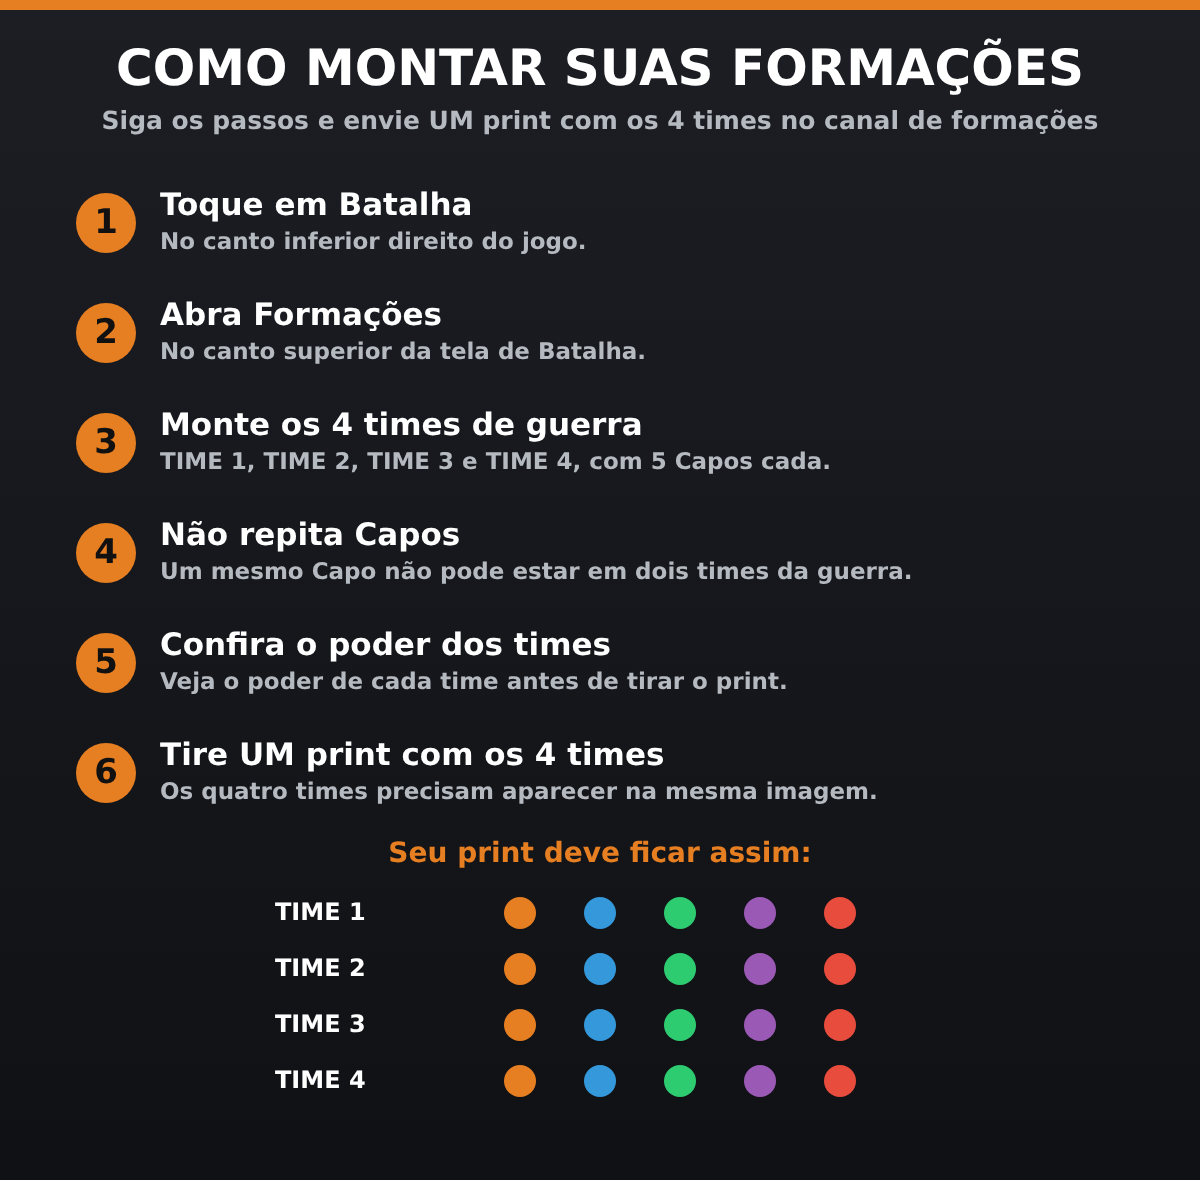
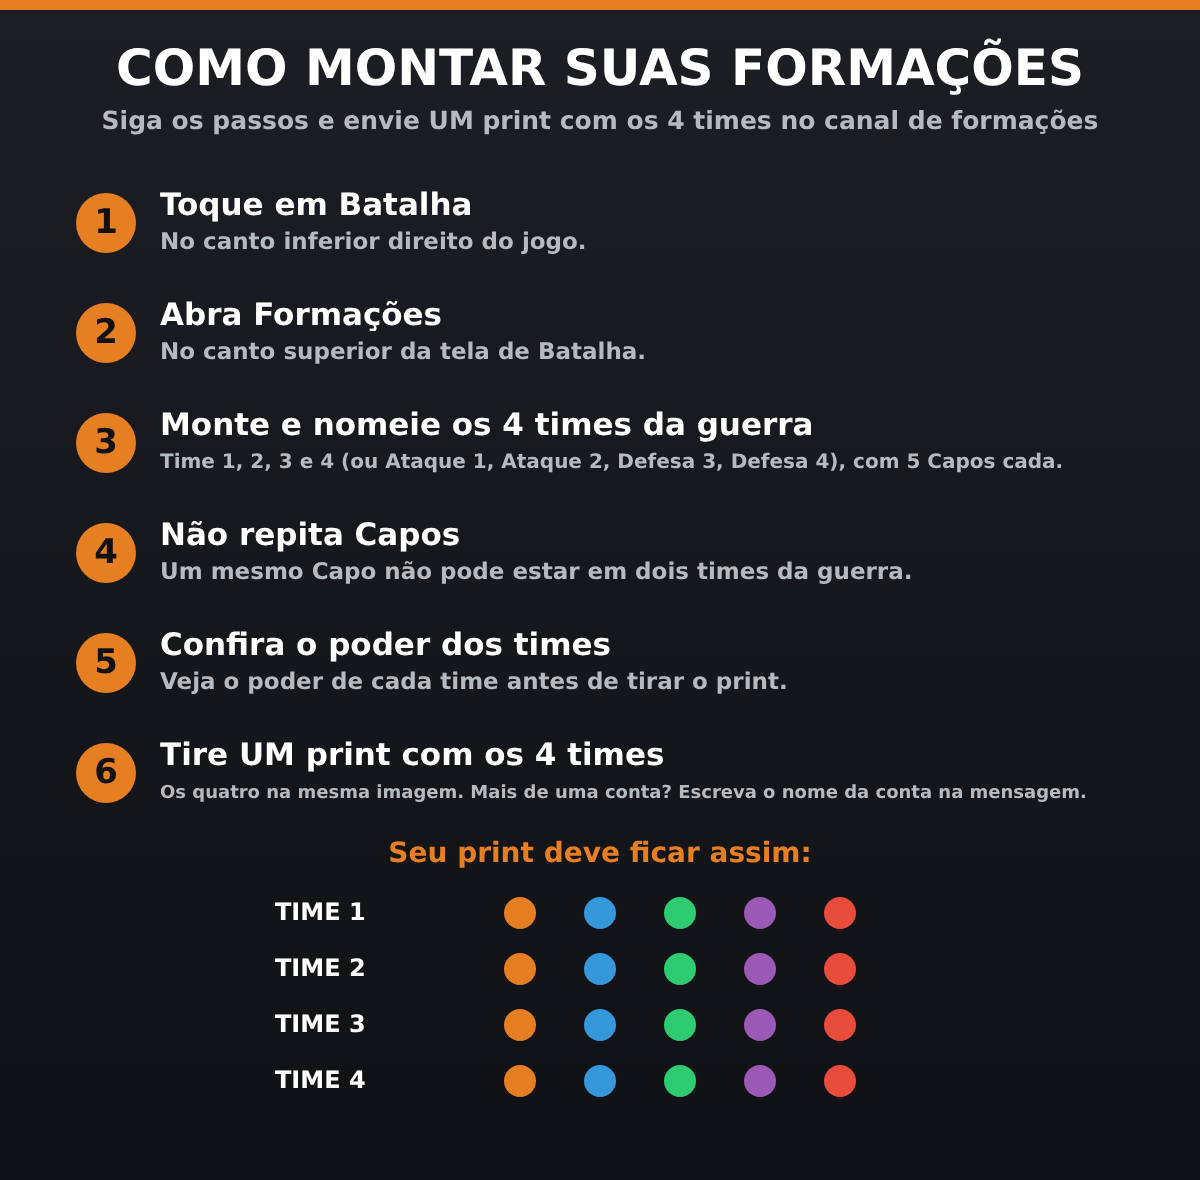
Coaching: times da guerra reconhecidos pelo nome (Time 1-4, Ataque 1/2, Defesa 3/4, ataque/def); guia e boas-vindas com os nomes
Claude-Session: https://claude.ai/code/session_01NyvqDFM6SW7o2inBABEyer

Changed region(s): [[0.1233, 0.3356, 0.8942, 0.3966], [0.1233, 0.6407, 0.8017, 0.7017], [0.8325, 0.6712, 0.8942, 0.7017]]

diff --git a/src/coaching.js b/src/coaching.js
@@ -97,10 +97,24 @@ const deleteMember = (gid, uid) => { const g = store(gid); const had = !!g.membe
 const listMembers = (gid) => Object.entries(store(gid).members).map(([id, m]) => ({ id, ...m, totalText: formatValue(m.total) })).sort((a, b) => b.total - a.total);
 
 /* ------------------------------ Gemini ------------------------------ */
-const PROMPT = `Esta é uma captura de tela do jogo Idle Mafia, tela "Formações" (times de Capos).
-Extraia apenas os 4 times de guerra: os chamados "TIME 1", "TIME 2", "TIME 3" e "TIME 4" (podem ter sufixo DEF ou DEF/ATK). IGNORE "Batalha Amistosa", "TIME 0", arena, kingpin, times com nomes livres e times vazios (poder 0). Se não existirem times com esses nomes, devolva os times que tiverem Capos e poder maior que 0. Para cada time devolva: "name" (nome do time como aparece, ex: "TIME 1 DEF/ATK", "TIME 3 DEF"), "power" (o poder exatamente como aparece, número com unidade, ex: "407.5T") e "capos" (lista com os nomes dos Capos do time, se der para ler; senão lista vazia).
+const PROMPT = `Esta é uma captura de tela do jogo Idle Mafia, tela "Formações" (times de Capos, mostrados em duas colunas).
+Extraia TODOS os times visíveis que tenham poder maior que 0 ou Capos, na ordem em que aparecem na tela (linha por linha, da esquerda para a direita), mesmo que tenham nomes personalizados. IGNORE só os times vazios (poder 0 e sem Capos).
+Para cada time devolva: "name" (o nome do time EXATAMENTE como aparece escrito na tela, incluindo o número, ex: "Time 1", "Ataque 2", "Defesa 3", "ataque/Def 1", "BT 1", "KP"), "power" (o poder exatamente como aparece, número com unidade, ex: "407.5T") e "capos" (lista com os nomes dos Capos do time, se der para ler; senão lista vazia).
 Responda SOMENTE com JSON no formato {"teams":[{"name":"","power":"","capos":[""]}]}.
 Se a imagem não for a tela de Formações do jogo, responda {"teams":[]}. Não invente valores: se algo não estiver legível, deixe o campo vazio.`;
+
+// Times da guerra = os que se chamam "Time 1..4", "Ataque 1", "Ataque 2", "Defesa 3", "Defesa 4", "ataque/Def 1"...
+// (cada membro salva de um jeito). Vale o primeiro número do nome (1 a 4); se repetir, vale o que aparece primeiro na tela.
+const WAR_NAME = /^\s*(?:time|team|ataque|attack|atk|defesas?|def)[^\d]*?(\d+)/i;
+function warTeams(list) {
+  const byNum = new Map();
+  for (const t of Array.isArray(list) ? list : []) {
+    const m = t && typeof t.name === 'string' ? WAR_NAME.exec(t.name) : null;
+    const n = m ? parseInt(m[1], 10) : 0;
+    if (n >= 1 && n <= 4 && !byNum.has(n)) byNum.set(n, t);
+  }
+  return [...byNum.entries()].sort((a, b) => a[0] - b[0]).map(([, t]) => t);
+}
 
 const BASE = 'https://generativelanguage.googleapis.com/v1beta/';
 const FALLBACK_MODELS = ['gemini-2.5-flash', 'gemini-flash-latest', 'gemini-2.0-flash', 'gemini-2.5-flash-lite', 'gemini-flash-lite-latest'];
@@ -196,7 +210,9 @@ async function readPrint(att) {
   if (buf.length > MAX_IMG) throw new Error('Imagem muito grande (máx. 6 MB).');
   const mime = /^image\/(png|jpe?g|webp)$/i.test(att.contentType || '') ? att.contentType.split(';')[0] : 'image/png';
   const j = await gemini(buf.toString('base64'), mime);
-  return normTeams(j.teams);
+  const out = normTeams(warTeams(j.teams));
+  out.seen = (Array.isArray(j.teams) ? j.teams : []).map((t) => clean(t?.name, 30)).filter(Boolean).slice(0, 12);
+  return out;
 }
 
 /* ------------------------------ Visual ------------------------------ */
@@ -278,7 +294,10 @@ async function handleMessage(msg) {
     try {
       const teams = await readPrint(att);
       if (!teams.length) {
-        await msg.reply('❌ Não encontrei times de **Formações** nessa imagem. Envie o print da tela de Formações, inteiro e sem cortes.').catch(() => {});
+        const seen = teams.seen || [];
+        await msg.reply(seen.length
+          ? '❌ Não achei os times da guerra. Eles precisam se chamar **Time 1** a **Time 4** (ou **Ataque 1, Ataque 2, Defesa 3, Defesa 4**). Nomes que eu vi: ' + seen.join(', ') + '. Renomeie seus times no jogo e envie o print de novo.'
+          : '❌ Não encontrei times de **Formações** nessa imagem. Envie o print da tela de Formações, inteiro e sem cortes.').catch(() => {});
         await msg.react('❌').catch(() => {});
         return;
       }
@@ -365,7 +384,7 @@ const path = require('path');
 const fs = require('fs');
 const GUIA_PNG = path.join(__dirname, '..', 'assets', 'coaching-guia.png');
 const GUIA = fs.existsSync(GUIA_PNG) ? GUIA_PNG : path.join(__dirname, '..', 'assets', 'coaching-guia.jpg');
-const DEFAULT_WELCOME = 'Bem-vindo(a) ao seu canal de coaching, {member}! 🕴 Aqui a liderança vai te orientar. Siga o passo a passo da imagem para montar seus times e depois envie o print da tela **Formações** no canal de formações.';
+const DEFAULT_WELCOME = 'Bem-vindo(a) ao seu canal de coaching, {member}! 🕴 Aqui a liderança vai te orientar. Siga o passo a passo da imagem para montar seus times. Os 4 times da guerra devem se chamar **Time 1, Time 2, Time 3 e Time 4** (ou **Ataque 1, Ataque 2, Defesa 3 e Defesa 4**). Depois envie o print da tela **Formações** no canal de formações; se tiver mais de uma conta, escreva o nome da conta na mensagem do print.';
 
 // Quem recebe as boas-vindas: membros com permissão própria de ver o canal que não são da equipe nem bots.
 async function findNewMembers(ch, cfg) {
@@ -418,4 +437,4 @@ async function handleChannel(ch) {
   if (!r.sent && !/já foram|não está dentro|desligad|Esse não/.test(r.reason)) console.log('[coaching] boas-vindas não enviadas (#' + ch.name + '): ' + r.reason);
 }
 
-module.exports = { accountKey, captionOf, handleChannel, welcome, DEFAULT_WELCOME, handleMessage, handleInteraction, refreshTable, listMembers, saveMember, deleteMember, normTeams, normPower, powerValue, formatValue, readPrint, gemini, parseLine };
+module.exports = { warTeams, accountKey, captionOf, handleChannel, welcome, DEFAULT_WELCOME, handleMessage, handleInteraction, refreshTable, listMembers, saveMember, deleteMember, normTeams, normPower, powerValue, formatValue, readPrint, gemini, parseLine };

diff --git a/tools/gerar-guia.js b/tools/gerar-guia.js
@@ -20,10 +20,10 @@ t('Siga os passos e envie UM print com os 4 times no canal de formações', W / 
 const steps = [
   ['Toque em Batalha', 'No canto inferior direito do jogo.'],
   ['Abra Formações', 'No canto superior da tela de Batalha.'],
-  ['Monte os 4 times de guerra', 'TIME 1, TIME 2, TIME 3 e TIME 4, com 5 Capos cada.'],
+  ['Monte e nomeie os 4 times da guerra', 'Time 1, 2, 3 e 4 (ou Ataque 1, Ataque 2, Defesa 3, Defesa 4), com 5 Capos cada.'],
   ['Não repita Capos', 'Um mesmo Capo não pode estar em dois times da guerra.'],
   ['Confira o poder dos times', 'Veja o poder de cada time antes de tirar o print.'],
-  ['Tire UM print com os 4 times', 'Os quatro times precisam aparecer na mesma imagem.'],
+  ['Tire UM print com os 4 times', 'Os quatro na mesma imagem. Mais de uma conta? Escreva o nome da conta na mensagem.'],
 ];
 let y = 175;
 steps.forEach(([a, b], i) => {
